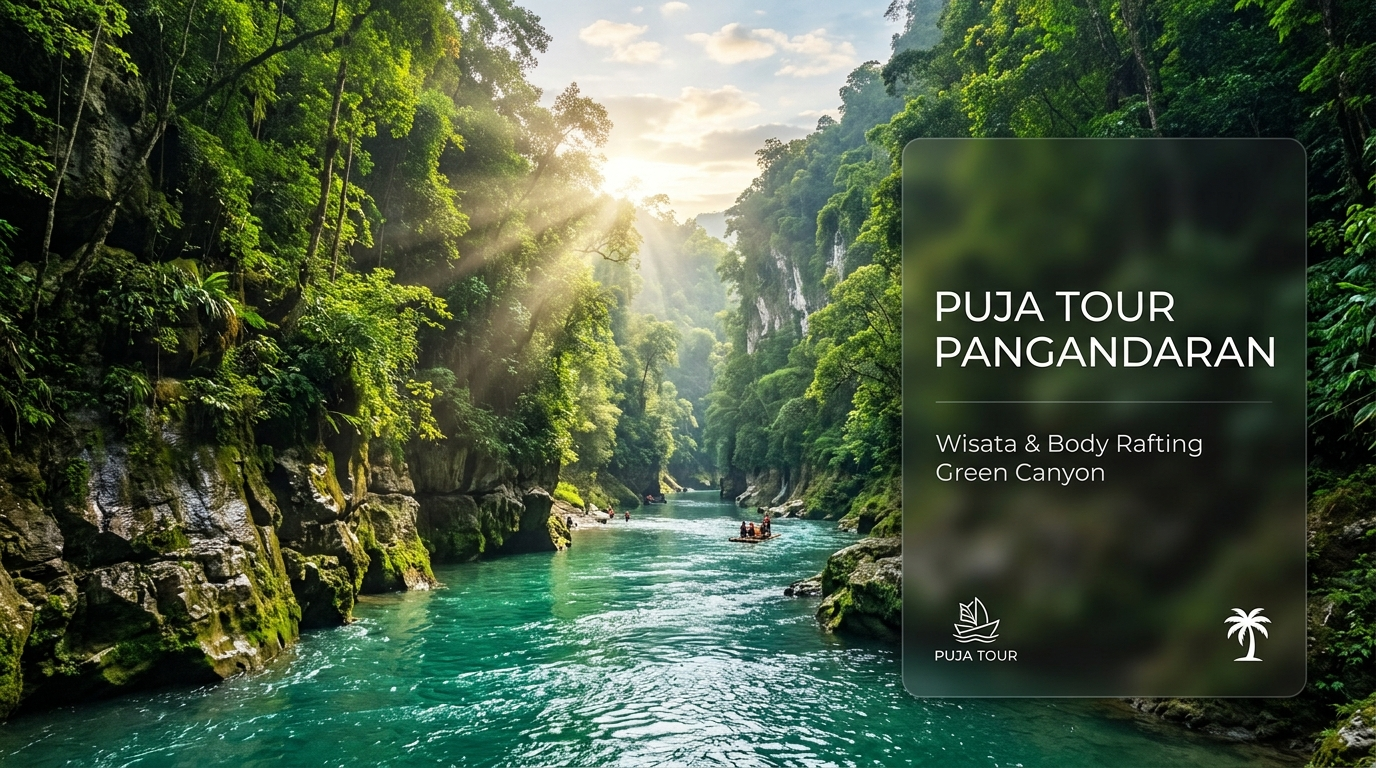
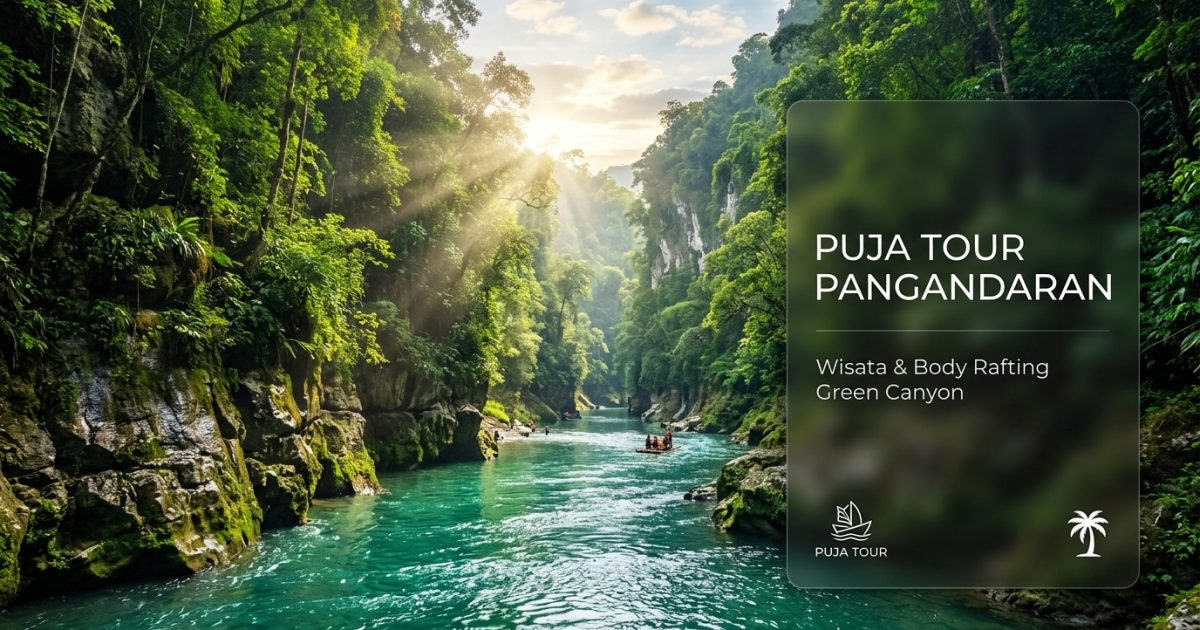
fix: optimize og_image to 185KB and add secure_url meta tags for WhatsApp

diff --git a/resources/views/landingpage.blade.php b/resources/views/landingpage.blade.php
@@ -23,9 +23,12 @@
     <meta property="og:title" content="Puja Tour & Travel Pangandaran | Wisata Terbaik di Pangandaran">
     <meta property="og:description" content="Nikmati liburan seru di Pangandaran bersama Puja Tour & Travel. Tersedia paket wisata Pangandaran, Green Canyon, snorkeling, pantai, dan berbagai pilihan perjalanan menarik lainnya.">
     <meta property="og:image" content="{{ asset('images/og_image.jpg') }}">
+    <meta property="og:image:secure_url" content="{{ asset('images/og_image.jpg') }}">
+    <meta property="og:image:type" content="image/jpeg">
     <meta property="og:image:width" content="1200">
     <meta property="og:image:height" content="630">
     <meta property="og:image:alt" content="Puja Tour & Travel Pangandaran — Paket Wisata Green Canyon & Pantai">
+    <link rel="image_src" href="{{ asset('images/og_image.jpg') }}">
 
     <!-- Twitter / X Card -->
     <meta name="twitter:card" content="summary_large_image">
